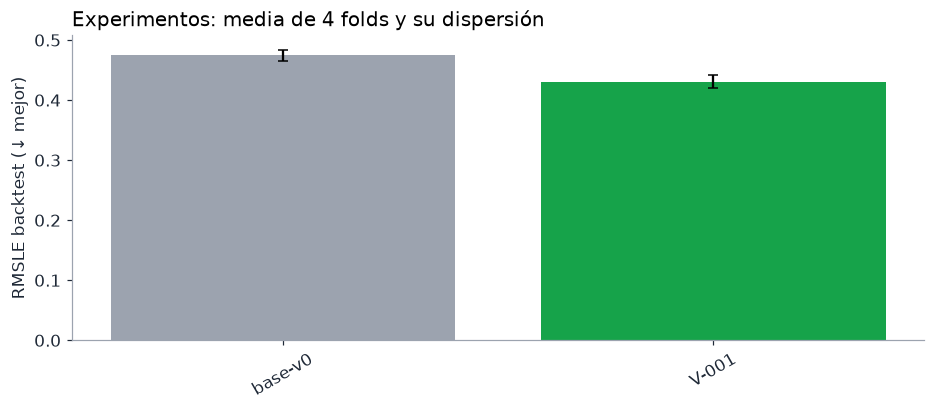
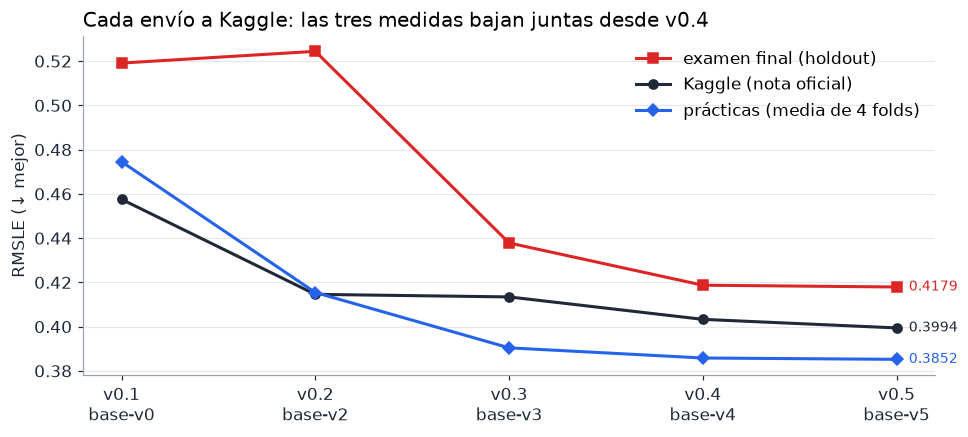
docs: refresh README with submission history, trunk and branches, panel features and lessons

diff --git a/scripts/make_figures.py b/scripts/make_figures.py
@@ -119,19 +119,25 @@ def familias(train):
 
 
 def progreso():
-    """Evolución del RMSLE de backtest por experimento (eval/results/*.json, sin -quick ni holdout)."""
-    res = [json.loads(f.read_text(encoding="utf-8")) for f in sorted((ROOT / "eval" / "results").glob("*.json"))]
-    res = [r for r in res if not r["name"].endswith(("-quick", "-holdout"))]
-    if not res:
-        print("  (sin resultados aún: salto progreso)")
+    """Evolución por envío a Kaggle (eval/kaggle.json): prácticas (4 folds), examen final (holdout) y nota de Kaggle."""
+    f = ROOT / "eval" / "kaggle.json"
+    if not f.exists():
+        print("  (sin eval/kaggle.json: salto progreso)")
         return
-    fig, ax = plt.subplots(figsize=(10, 3.6))
-    best = min(r["mean"] for r in res)
-    ax.bar([r["name"] for r in res], [r["mean"] for r in res], yerr=[r["std"] for r in res],
-           color=[OK if r["mean"] == best else MUTED for r in res], capsize=3)
-    ax.set_ylabel("RMSLE backtest (↓ mejor)")
-    ax.set_title("Experimentos: media de 4 folds y su dispersión", loc="left")
-    ax.tick_params(axis="x", rotation=30)
+    subs = json.loads(f.read_text(encoding="utf-8"))["submissions"]
+    x = [f"{s['tag']}\n{s['base']}" for s in subs]
+    fig, ax = plt.subplots(figsize=(10, 4))
+    for key, label, col, mk in (("holdout", "examen final (holdout)", WARN, "s"),
+                                ("lb", "Kaggle (nota oficial)", INK, "o"),
+                                ("cv", "prácticas (media de 4 folds)", ACCENT, "D")):
+        ys = [s[key] for s in subs]
+        ax.plot(x, ys, marker=mk, color=col, lw=2, label=label)
+        ax.annotate(f"{ys[-1]:.4f}", (len(x) - 1, ys[-1]), xytext=(8, 0), textcoords="offset points",
+                    va="center", fontsize=9, color=col)
+    ax.set_ylabel("RMSLE (↓ mejor)")
+    ax.set_title("Cada envío a Kaggle: las tres medidas bajan juntas desde v0.4", loc="left")
+    ax.grid(axis="y", color=MUTED, alpha=0.25)
+    ax.legend(frameon=False, loc="upper right")
     save(fig, "progreso")
 
 

diff --git a/README.md b/README.md
@@ -10,9 +10,12 @@ coordinado desde un tablero kanban (más abajo explico cómo).
 
 | | |
 |---|---|
-| 📈 **Mejor RMSLE en el backtest** | 0.3852 (base-v5 = V-014, LightGBM afinado) · base-v4: 0.3858 · base-v0: 0.4745 |
-| 🧪 **Experimentos cerrados** | 6 aceptados · 5 rechazados → [qué aprendí en cada uno](docs/APRENDIZAJES.md) |
-| 🏁 **Leaderboard de Kaggle** | 0.39940 (v0.5, base-v5) · v0.4: 0.40327 · v0.3: 0.41341 · v0.2: 0.41457 · v0.1: 0.45751 |
+| 🏁 **Nota en Kaggle** | **0.39940** (v0.5) · empezó en 0.45751 (v0.1) |
+| 📈 **Error en las prácticas** | **0.3852** (base-v5) · empezó en 0.4745 (base-v0) |
+| 🧪 **Ideas probadas** | 17: 7 forman el modelo actual, 10 no entraron (2 se están repitiendo) → [qué aprendí en cada una](docs/APRENDIZAJES.md) |
+| 🌳 **Árbol de experimentos** | [`docs/experimentos.html`](docs/experimentos.html): cada idea explicada sin tecnicismos (descárgalo y ábrelo en el navegador) |
+
+![Progreso de los envíos a Kaggle](docs/img/progreso.png)
 
 ---
 
@@ -80,7 +83,11 @@ quincena:
 
 ![Backtest: 4 folds, holdout y test](docs/img/backtest.png)
 
-- **4 folds** (azul): sirven para comparar ideas. Una idea se acepta si mejora la media **y** no empeora más de un fold.
+- **4 folds** (azul): sirven para comparar ideas. Una idea se acepta si mejora la media **con dos semillas distintas**
+  y no empeora más de un fold. Al principio exigía además que la mejora superase el «ruido» del azar (~0.001), pero esa regla
+  rechazó V-014, que en Kaggle mejoró 0.0039: una mejora pequeña que se repite siempre en la misma dirección no es casualidad.
+- **Fold de control** (16–31 de agosto de 2016): la misma quincena que el test de Kaggle, un año antes. No decide nada, avisa.
+  Se mira **sin las tiendas que cerraron** esos días (18 y 25) ni la que aún no había abierto (52): un cierre no se puede prever.
 - **Holdout** (rojo): los últimos 16 días. **No se toca** hasta el final; es el examen de verdad antes de enviar a Kaggle.
   Si mirase el holdout para decidir, acabaría ajustándome a él sin darme cuenta (otra forma de fuga, más sutil).
 - El código que corta los datos ([`scripts/backtest.py`](scripts/backtest.py)) **solo le entrega al modelo el pasado**:
@@ -139,38 +146,55 @@ flowchart TB
     Dev -- "a revisión" --> Test
 ```
 
-Quien implementa una variante nunca la evalúa. Un *runner* ([`board/runner.py`](board/runner.py)) recoge tarjetas del panel cada
-3 horas y lanza al agente que toca, con permisos acotados: puede ejecutar Python y leer git, pero no instalar, borrar,
-hacer push ni enviar nada a Kaggle. Los envíos los hago yo a mano.
+Quien implementa una variante nunca la evalúa. Un *runner* ([`board/runner.py`](board/runner.py)) recoge tarjetas del panel
+(cada 3 horas o con el botón **▶ Iniciar** del panel) y lanza al agente que toca, con permisos acotados: puede ejecutar Python y
+leer git, pero no instalar, borrar, hacer commits ni push, ni tocar Kaggle. Lo que aprendí montándolo:
+
+- **Ver qué hace el agente sin gastar tokens:** la CLI escribe cada paso en un log (`stream-json`) y el panel lo muestra en directo,
+  con un indicador de si el proceso sigue vivo y cuándo hizo su última acción.
+- **Dos carriles en paralelo:** «pensar» (investigador, modelador, analista, arquitecto) y «medir» (desarrollador, evaluador),
+  para que nunca coincidan dos backtests que se pelean por la CPU. Cada carril hace commit solo de sus propios ficheros.
+- **Comandos denegados a la vista:** si a un agente le bloquean un comando, queda anotado en su tarjeta; si lo bloqueado era crear
+  tarjetas, la suya no puede cerrarse como hecha.
+- **Tarjetas para humanos:** la descripción empieza en lenguaje llano y lo técnico va plegado debajo.
+- **Los envíos los preparo yo (consultor) y los sube Alba**, revisando antes el examen final. El MCP de Kaggle solo lo usa el
+  consultor, con permiso en cada envío; el runner lo tiene bloqueado.
 
 ---
 
 ## 6. Resultados
 
-Backtest de 4 folds (RMSLE medio ± desviación; menor es mejor). La tabla se actualiza con cada experimento cerrado.
+### El tronco: lo que forma el modelo actual
 
-| Variante | Idea | RMSLE backtest | Folds que mejora | Veredicto |
+| Paso | Idea, en llano | Prácticas | Examen final | Kaggle |
 |---|---|---|---|---|
-| base-v0 | media de los últimos 14 días por tienda×familia | 0.4745 ± 0.0090 (f1 0.4738 · f2 0.4611 · f3 0.4769 · f4 0.4864) | — | línea base |
-| V-001 | base-v0 × factor del día de la semana (8 sem.) por tienda×familia | 0.4304 ± 0.0106 (f1 0.4368 · f2 0.4143 · f3 0.4283 · f4 0.4423) | −0.044 | ✅ ACEPTADA |
-| V-002 | media y perfil semanal en escala log (log1p 14 d + perfil log 8 sem.) | 0.4154 ± 0.0064 (f1 0.4201 · f2 0.4057 · f3 0.4138 · f4 0.4222) | −0.015 vs base-v1 | ✅ ACEPTADA |
-| V-003 | ajuste en log por promociones (beta por familia) sobre V-002 | 0.4571 ± 0.0244 (f1 0.4311 · f2 0.4405 · f3 0.4625 · f4 0.4945) | +0.042 vs base-v2 (0/4) | ❌ RECHAZADA |
-| V-004 | LightGBM global (8 cortes; medias log + perfil semanal) | 0.4057 ± 0.0122 (f1 0.4041 · f2 0.3926 · f3 0.4007 · f4 0.4255) | −0.010 vs base-v2 (3/4) | ✅ ACEPTADA |
-| V-005 | V-004 + 3 rasgos de promoción (día, suma 14 d, ratio) | 0.3946 ± 0.0072 (f1 0.3949 · f2 0.3860 · f3 0.3918 · f4 0.4057) | −0.011 vs V-004 (4/4) | ✅ ACEPTADA |
-| V-006 | V-005 + 3 rasgos anuales (retardo 364: día, ventana ±3 d, diferencia) | 0.3904 ± 0.0087 (f1 0.3932 · f2 0.3796 · f3 0.3861 · f4 0.4029) | −0.004 vs V-005 (4/4) | ✅ ACEPTADA |
-| V-007 | base-v3 con objetivo tweedie (p=1.3) sobre ventas crudas | 0.4094 ± 0.0149 (f1 0.4075 · f2 0.3885 · f3 0.4113 · f4 0.4304) | +0.019 vs base-v3 (0/4) | ❌ RECHAZADA |
-| V-008 | base-v3 con 16 modelos directos (uno por horizonte h) | 0.4833 ± 0.0155 (f1 0.4793 · f2 0.4636 · f3 0.4835 · f4 0.5068) | +0.093 vs base-v3 (0/4) | ❌ RECHAZADA |
-| V-009 | base-v3 + modelo recursivo (1 paso); media en log con el directo | media 0.3860 ± 0.0077 (f1 0.3912 · f2 0.3754 · f3 0.3822 · f4 0.3952); s1 0.3856. Solo recursivo: 0.3894 | −0.0045 vs base-v3 (4/4) media; recursivo solo −0.0010 (3/4) | ✅ ACEPTADA (media) · ❌ recursivo solo |
-| V-011 | base-v3 con promo_day/promo_ratio recortados al p99 por familia | 0.3908 ± 0.0088 (f1 0.3953 · f2 0.3792 · f3 0.3863 · f4 0.4023) | +0.0003 vs base-v3 (2/4); 16-ago aún ×2.8–3.1 el 17-ago | ❌ RECHAZADA |
-| V-010 | base-v4 promediando 3 semillas × 2 ventanas (todo / desde 2015) en log | 0.3856 ± 0.0076 (f1 0.3908 · f2 0.3750 · f3 0.3819 · f4 0.3945); s7 0.3854; c1 0.7536 | −0.0002 vs base-v4 (4/4) < variación ~0.001; tiempo ×3 (97→312 s) | ❌ RECHAZADA |
-| V-014 | afinado de hiperparámetros LightGBM (63 hojas, lr 0.03×700, min_data 100) | media 0.3853 ± 0.0073 (sem 7); sem 11: 0.3851 | −0.0005/−0.0007 vs base-v4 (4/4, pero <0.002 = ruido); tiempo ×3 | ❌ RECHAZADA |
-| V-015 | rasgos de intermitencia (fracción de ceros 14/28/56 d, días desde última venta) | media 0.3854 ± 0.0071; sem 1: 0.3855 | −0.0003 vs base-v4 (2/4 folds, <ruido); c1 0.7513 vs 0.7552; tiempo ×1.4 | ❌ RECHAZADA |
-| V-016 | calendario de paga (día del mes, is_payday, días desde paga, días a fin de mes) | media 0.3878 ± 0.0092; sem 1: 0.3874 | +0.0020 vs base-v4 (empeora 3/4 folds); c1 0.7574 vs 0.7552; tiempo ×1.9 | ❌ RECHAZADA |
-| V-019 | predecir 0 si la serie lleva ≥56 días sin vender | media 0.3849 (sem 42); 0.3850 (sem 7) | −0.0003/−0.0002 vs base-v5 (mejor 4/4 y 3/4 folds); c1 0.7523/0.7511 vs 0.7526 | ✅ ACEPTADA |
-| V-013 | mezcla en log 0.8·base-v3 + 0.2·base-v2 | 0.3893 ± 0.0078 (f1 0.3929 · f2 0.3788 · f3 0.3858 · f4 0.3996); s1 0.3891 | −0.0012 vs base-v3 (4/4) pero +0.0035 vs base-v4 (peor 4/4); control ago-2016 0.7704 | ❌ RECHAZADA |
-| V-012 | base-v3 con 24 cortes (en vez de 8) y peso exponencial a lo reciente (vida media 120 d) | 0.3919 ± 0.0116 (f1 0.3922 · f2 0.3751 · f3 0.3924 · f4 0.4079); s1 0.3928 | +0.0015 vs base-v3 (2/4); control ago-2016 mejora (0.7596 vs 0.7696); 4× más lento | ❌ RECHAZADA |
+| base-v0 | repetir la media de las dos últimas semanas | 0.4745 | 0.5191 | 0.45751 |
+| V-001 | tener en cuenta el día de la semana | 0.4304 | 0.5109 | — |
+| V-002 | calcular en proporciones (escala logarítmica), como mide la nota | 0.4154 | 0.5244 | 0.41457 |
+| V-004 | un modelo que aprende de las 1.782 series a la vez (LightGBM) | 0.4057 | — | — |
+| V-005 | darle las promociones como pista | 0.3946 | — | — |
+| V-006 | recordar lo vendido hace un año | 0.3904 | 0.4378 | 0.41341 |
+| V-009 | media de dos maneras de predecir: los 16 días de golpe y día a día | 0.3858 | 0.4187 | 0.40327 |
+| **V-014** | **afinar los ajustes del LightGBM** (aceptada tras el envío experimental) | **0.3852** | **0.4179** | **0.39940** |
 
-![Progreso de los experimentos](docs/img/progreso.png)
+### Las ramas: lo que se probó y se descartó
+
+| Idea | Qué pasó | Por qué |
+|---|---|---|
+| V-003 · ajustar a mano por promociones | empeora mucho (0.4571) | la promoción coincide con otras cosas y la fórmula le atribuía efectos ajenos |
+| V-007 · entrenar con pérdida tweedie | empeora (0.4094) | puntúa unidades, pero la nota mide proporciones |
+| V-008 · un modelo por cada día del horizonte | empeora mucho (0.4833) | cada modelo aprende con 16 veces menos ejemplos |
+| V-009 recursivo solo · predecir día a día | mejora dentro del ruido (0.3894) | solo funciona combinado con el directo (V-009) |
+| V-011 · poner tope a las promociones | igual (0.3908) | en las prácticas casi no hay picos que recortar |
+| V-012 · triplicar los ejemplos de entrenamiento | peor de media (0.3919), ×4 de tiempo | los ejemplos nuevos repiten información |
+| V-013 · mezclar con el modelo sencillo | mejora a base-v3 pero no a base-v4 | una opinión débil resta en una media de opiniones fuertes |
+| V-016 · día del mes y día de paga | empeora 3 de 4 prácticas (0.3878) | el modelo ya lo deducía de las ventas recientes |
+| V-019 · predecir cero en series dormidas | mejora las prácticas (0.3849) pero empeora el examen final (0.4227) | da por muerto el material escolar que arranca en agosto; se corrige en V-023 |
+| V-010 y V-015 · varias semillas / series intermitentes | mejoras pequeñas | se están repitiendo sobre base-v5 con la regla nueva (V-021, V-022) |
+
+Los números exactos de cada experimento (por fold, por familia y por semilla) están en [docs/APRENDIZAJES.md](docs/APRENDIZAJES.md)
+y en `eval/results/`. En curso: festivos por tienda (V-017), la vuelta al cole del año anterior (V-018), el reparto entre las dos
+formas de predecir según el producto (V-020) y la regla del cero sin productos de temporada (V-023).
 
 ---
 
@@ -201,5 +225,13 @@ docs/               APRENDIZAJES.md (bitácora), análisis de errores, diseño d
 
 ## 8. Qué he aprendido
 
-La bitácora completa está en [docs/APRENDIZAJES.md](docs/APRENDIZAJES.md), con un glosario de cada concepto nuevo.
-Los tres aprendizajes más importantes se resumirán aquí al terminar el proyecto.
+1. **Lo sencillo primero.** Fijarse en el día de la semana bajó el error más que todo lo demás junto.
+2. **Mide como te van a medir.** Calcular en proporciones (V-002) mejoró; entrenar con otra vara (V-007) empeoró.
+3. **Un examen solo engaña; tres que coinciden, no.** v0.3 mejoraba en las prácticas y apenas en Kaggle. Desde v0.4, cuando
+   prácticas, examen final y control bajan a la vez, Kaggle también baja.
+4. **Una mejora pequeña y repetida no es ruido.** V-014 se rechazó por mejorar «solo» 0.0005 y en Kaggle mejoró 0.0039.
+5. **Las reglas duras son peligrosas con productos de temporada.** Poner a cero lo que lleva dos meses sin venderse (V-019) mataba
+   el material escolar justo antes de la vuelta al cole; solo lo vio el examen final.
+6. **Rechazar también es avanzar.** Diez ideas no entraron en el modelo, y cada una dejó escrito por qué.
+
+La bitácora completa, con un glosario de cada concepto nuevo, está en [docs/APRENDIZAJES.md](docs/APRENDIZAJES.md).
